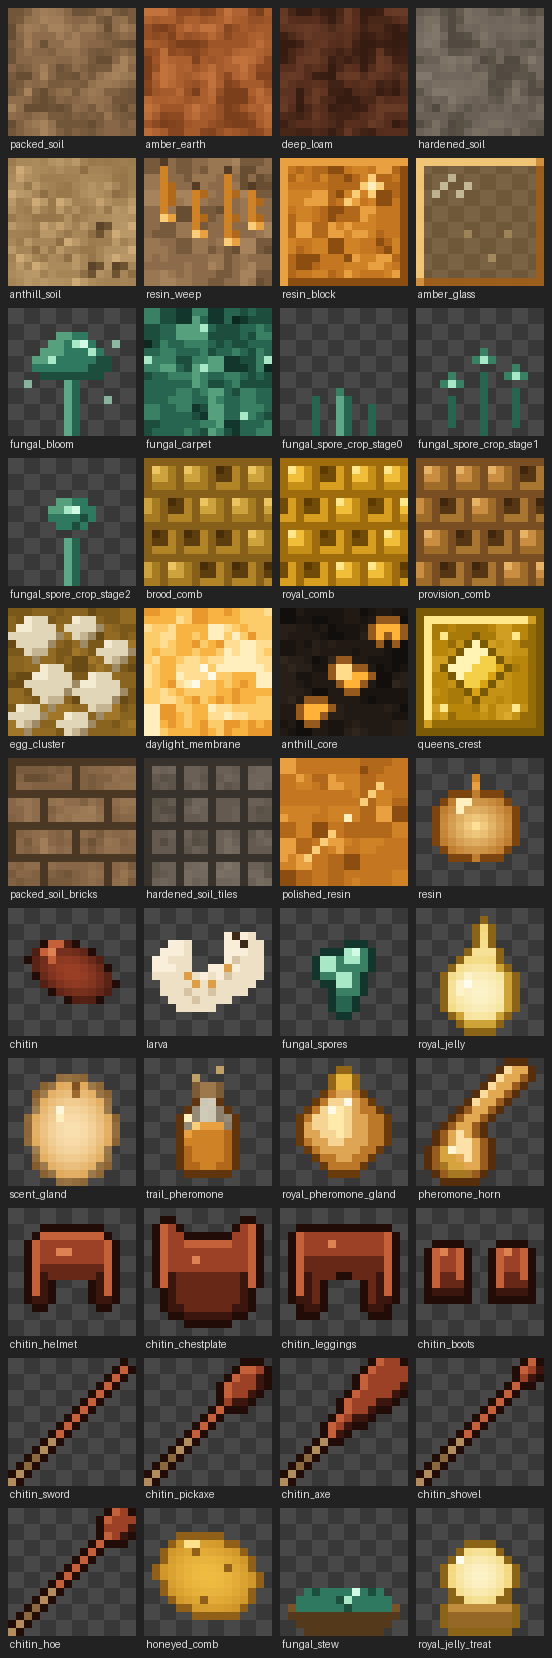
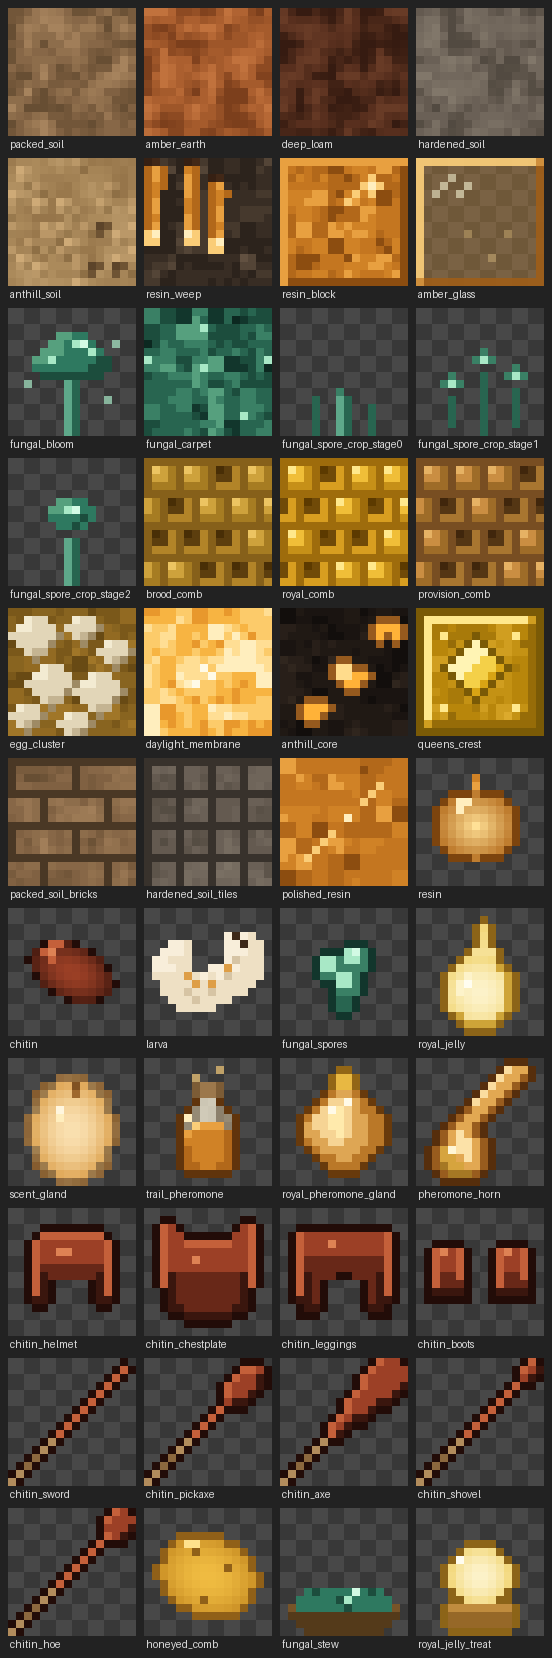
art(blocks): resin weep retexture

Changed region(s): [[0.2464, 0.0923, 0.4928, 0.1846]]

diff --git a/assets-src/blocks.py b/assets-src/blocks.py
@@ -368,24 +368,73 @@ AMBER_PALE = (250, 205, 120, 255)
 AMBER_SPARK = (255, 238, 190, 255)
 
 
+# Ep2 task I3 retexture (2026-08-18): the original background was the full
+# packed-soil palette, which is busy and mid-value across its own 5 tones --
+# fine for a soil block that has to fill a whole wall, but here it competed
+# with the amber for attention instead of setting it off. This is a quieter,
+# darker rock fill: narrow value range, weighted hard toward the two darkest
+# tones, so nothing in the background is bright enough to challenge the
+# drips for "what does the eye land on first."
+RESIN_WEEP_ROCK_PAL = [(44, 35, 28, 255), (56, 45, 36, 255), (70, 57, 45, 255),
+                       (84, 69, 55, 255), (98, 81, 65, 255)]
+
+
+def _wrap_dist(a, b):
+    """Shortest distance between two columns on the seamless 16-wide tile."""
+    d = abs(a - b) % SIZE
+    return min(d, SIZE - d)
+
+
 def resin_weep():
-    """Packed-soil face with amber drips running down it -- the 'weep'."""
-    img = value_noise_fill("resin_weep", PACKED_SOIL_PAL)
+    """Dark rock face weeping amber -- the 'weep'.
+
+    Ep2 task I3 retexture (2026-08-18): the original drips were a single
+    1px-wide column of AMBER_MID at 4 fixed, evenly-spaced x positions. A
+    1px-wide feature is exactly what mip-mapping erases first, and a fixed
+    spacing is exactly what reads as a stamped grid once the tile repeats
+    across a wall -- both are the opposite of "readable at distance." This
+    version widens each drip to a 2px core (one side glossy-light, one side
+    mid-tone, so it still reads as round rather than as a flat ribbon),
+    randomises count/position/length off the seeded RNG so no two drips on
+    one tile -- or across two adjacent copies of it -- line up the same
+    way, and closes each drip with a 2x2 bead plus a single SPARK pixel
+    that stays legible even after the mip chain has eaten everything else."""
+    img = value_noise_fill("resin_weep_rock", RESIN_WEEP_ROCK_PAL,
+                           weights=[5, 5, 3, 1, 1])
     px = img.load()
     r = rng("resin_weep:drips")
-    for x0 in (2, 6, 10, 13):
-        y0 = r.randint(0, 3)
-        length = r.randint(5, 9)
-        # dark seep hole at the source
-        px[x0, y0] = (84, 60, 38, 255)
-        for y in range(y0 + 1, min(SIZE - 1, y0 + length)):
-            px[x0, y] = AMBER_MID
-            if r.random() < 0.4:
-                px[wrap(x0 + 1), y] = AMBER_BASE
-        # glossy bead at the bottom of the drip
+    placed = []
+    for _ in range(r.randint(3, 4)):
+        x0 = r.randrange(SIZE)
+        for _attempt in range(8):
+            if all(_wrap_dist(x0, u) >= 3 for u in placed):
+                break
+            x0 = r.randrange(SIZE)
+        placed.append(x0)
+        x1 = wrap(x0 + 1)
+        glossy, mid = (x0, x1) if r.random() < 0.5 else (x1, x0)
+        y0 = r.randint(0, 2)
+        length = r.randint(7, 12)
         yb = min(SIZE - 1, y0 + length)
-        px[x0, yb] = AMBER_PALE
-        px[wrap(x0 + 1), yb] = AMBER_LIGHT
+
+        # seep hole: two dark pixels so the source itself reads as a hole,
+        # not just the top of the drip.
+        px[x0, y0] = (54, 32, 19, 255)
+        px[x1, y0] = (66, 40, 23, 255)
+
+        for y in range(y0 + 1, yb):
+            px[mid, y] = AMBER_BASE
+            px[glossy, y] = AMBER_LIGHT if r.random() < 0.6 else AMBER_MID
+            # an occasional stray droplet breaking off the glossy edge
+            if r.random() < 0.12:
+                px[wrap(glossy + 1), y] = AMBER_BASE
+
+        # glossy bead at the bottom: 2x2 pale amber with one spark corner,
+        # sized to survive mip-mapping the way a single tip pixel would not.
+        yb1 = min(SIZE - 1, yb + 1)
+        for (bx, by) in ((x0, yb), (x1, yb), (x0, yb1), (x1, yb1)):
+            px[bx, by] = AMBER_PALE
+        px[glossy, yb] = AMBER_SPARK
     return img
 
 
